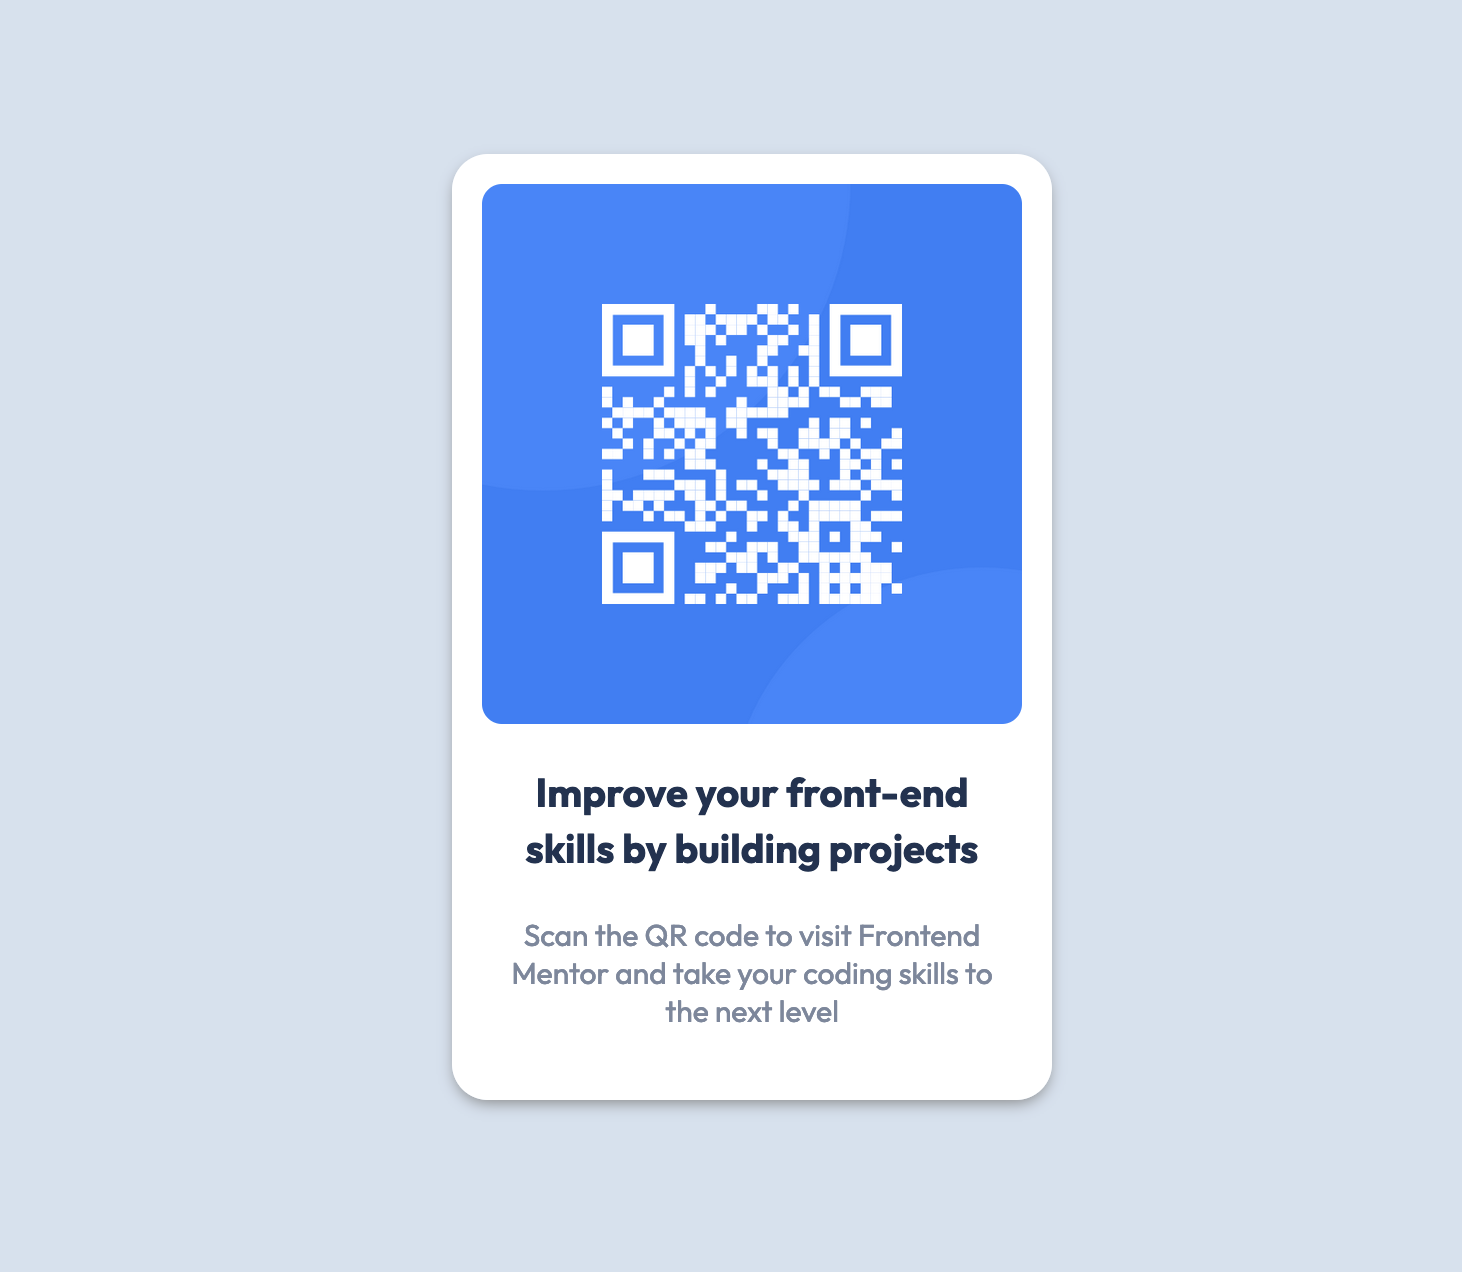
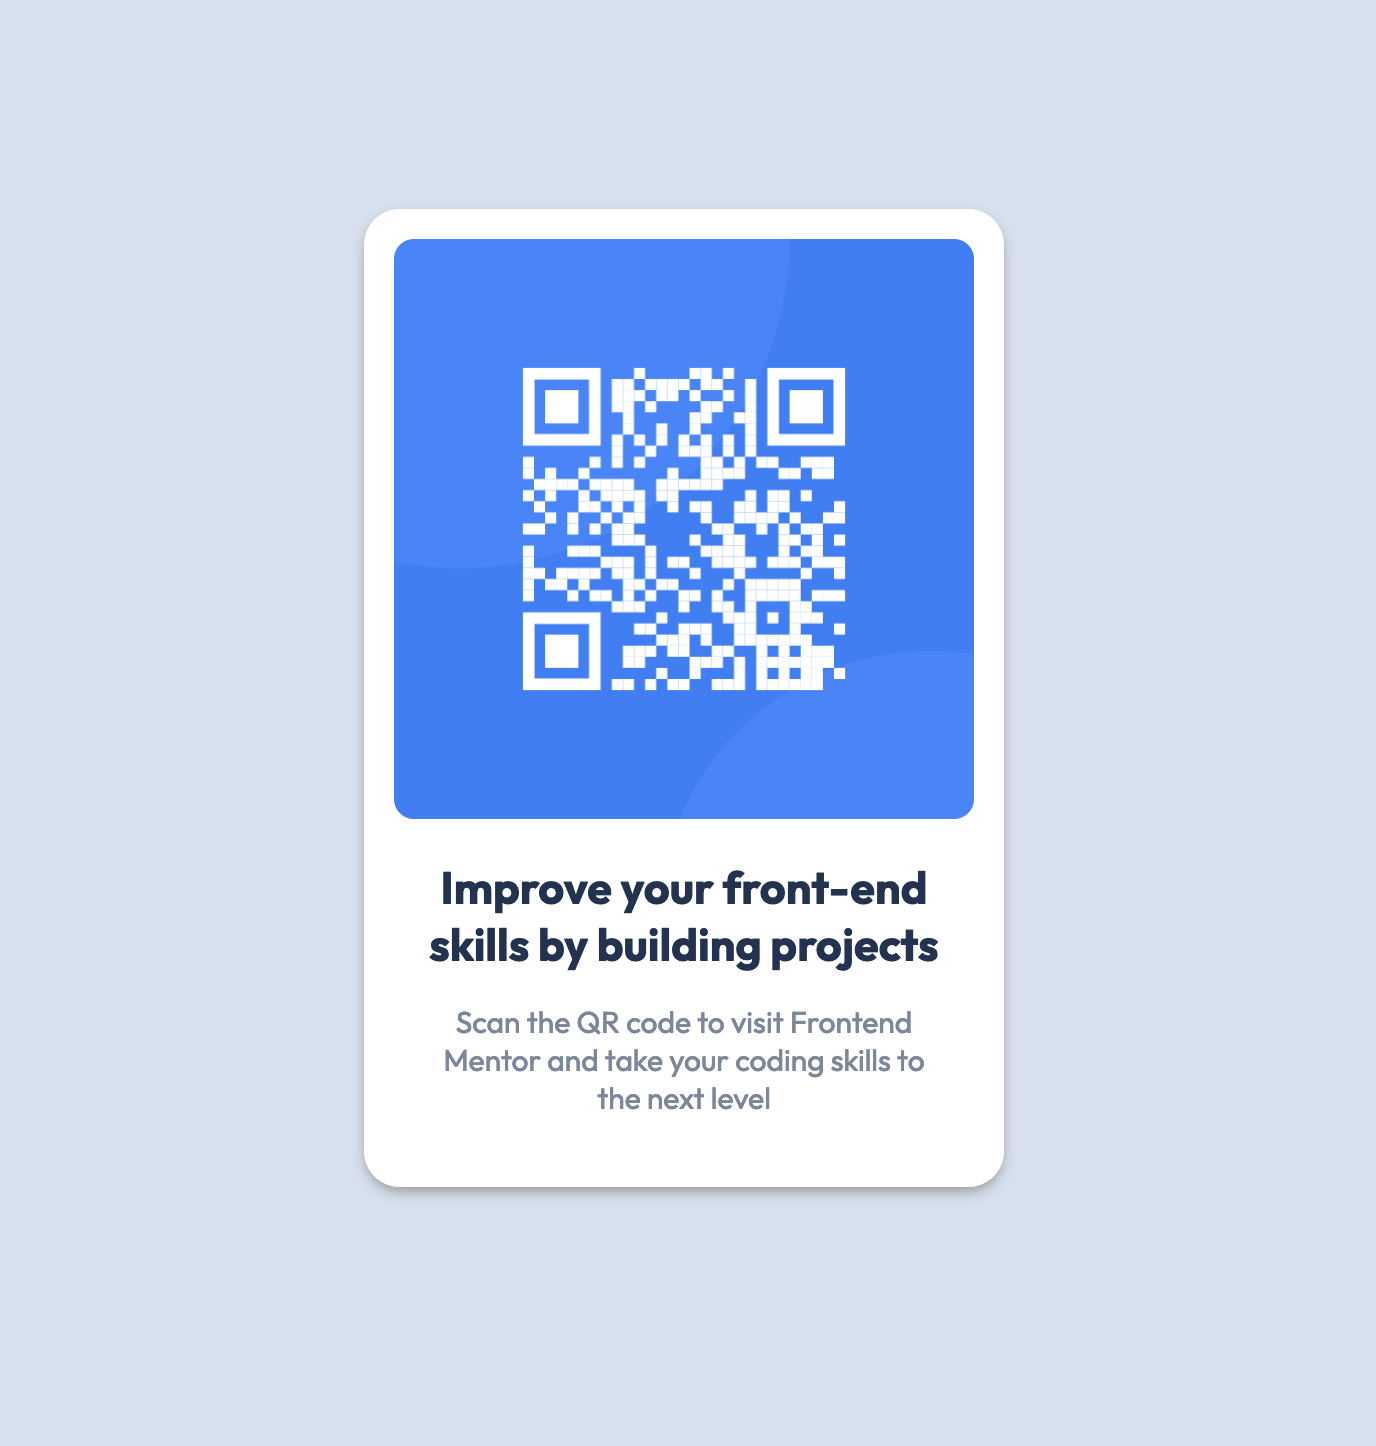
all using flexbox

Changed region(s): [[0.25, 0.1226, 0.75, 0.8892], [0.375, 0.2146, 0.625, 0.4906]]

diff --git a/style.css b/style.css
@@ -1,59 +1,63 @@
-@import url("https://fonts.googleapis.com/css2?family=Outfit:wght@400;700&display=swap");
-
-html {
-  box-sizing: border-box;
-}
-*,
-*:before,
-*:after {
-  box-sizing: inherit;
+:root {
+  --white: hsl(0, 0%, 100%);
+  --light-gray: hsl(212, 45%, 89%);
+  --grayish-blue: hsl(220, 15%, 55%);
+  --dark-blue: hsl(218, 44%, 22%);
 }
 
 * {
+  box-sizing: border-box;
   margin: 0;
   padding: 0;
 }
 
-body {
-  width: 70%;
-  margin: 150px auto;
-  background-color: rgba(213, 225, 239, 255);
+html {
+  font-size: 15px;
   font-family: "Outfit", sans-serif;
 }
 
+body {
+  background-color: var(--light-gray);
+  width: 100vw;
+  height: 100vh;
+  display: flex;
+  flex-direction: column;
+  justify-content: center;
+  align-items: center;
+}
+
 div.card {
+  background-color: var(--white);
   width: 320px;
-  margin: 0 auto;
+  height: auto;
   padding: 15px;
-  background-color: hsl(0, 0%, 100%);
   border-radius: 18px;
   display: flex;
   flex-direction: column;
+  justify-content: center;
+  align-items: center;
   box-shadow: 0 3px 8px -2px gray;
 }
 
 img {
+  border-radius: 10px;
   max-width: 100%;
   height: auto;
-  border-radius: 10px;
-}
-
-h1,
-p {
-  margin: 20px 10px;
-  padding: 0 3px;
-  text-align: center;
 }
 
 h1 {
   font-weight: 700;
-  font-size: 20px;
-  line-height: 1.4;
-  color: hsl(218, 44%, 22%);
+  font-size: 1.5rem;
+  text-align: center;
+  color: var(--dark-blue);
+  margin-top: 20px;
 }
 
 p {
+  text-align: center;
+  width: 90%;
   font-weight: 400;
-  font-size: 15px;
-  color: hsl(220, 15%, 55%);
+  color: var(--grayish-blue);
+  margin-top: 15px;
+  margin-bottom: 20px;
 }

diff --git a/index.html b/index.html
@@ -5,6 +5,12 @@
     <meta name="viewport" content="width=device-width, initial-scale=1.0" />
     <!-- displays site properly based on user's device -->
 
+    <link rel="preconnect" href="https://fonts.googleapis.com" />
+    <link rel="preconnect" href="https://fonts.gstatic.com" crossorigin />
+    <link
+      href="https://fonts.googleapis.com/css2?family=Outfit:wght@400;700&display=swap"
+      rel="stylesheet"
+    />
     <link
       rel="icon"
       type="image/png"
@@ -19,13 +25,11 @@
     <main>
       <div class="card">
         <img src="./images/image-qr-code.png" alt="QR code" />
-        <div class="text">
-          <h1>Improve your front-end skills by building projects</h1>
-          <p>
-            Scan the QR code to visit Frontend Mentor and take your coding
-            skills to the next level
-          </p>
-        </div>
+        <h1>Improve your front-end skills by building projects</h1>
+        <p>
+          Scan the QR code to visit Frontend Mentor and take your coding skills
+          to the next level
+        </p>
       </div>
     </main>
   </body>
